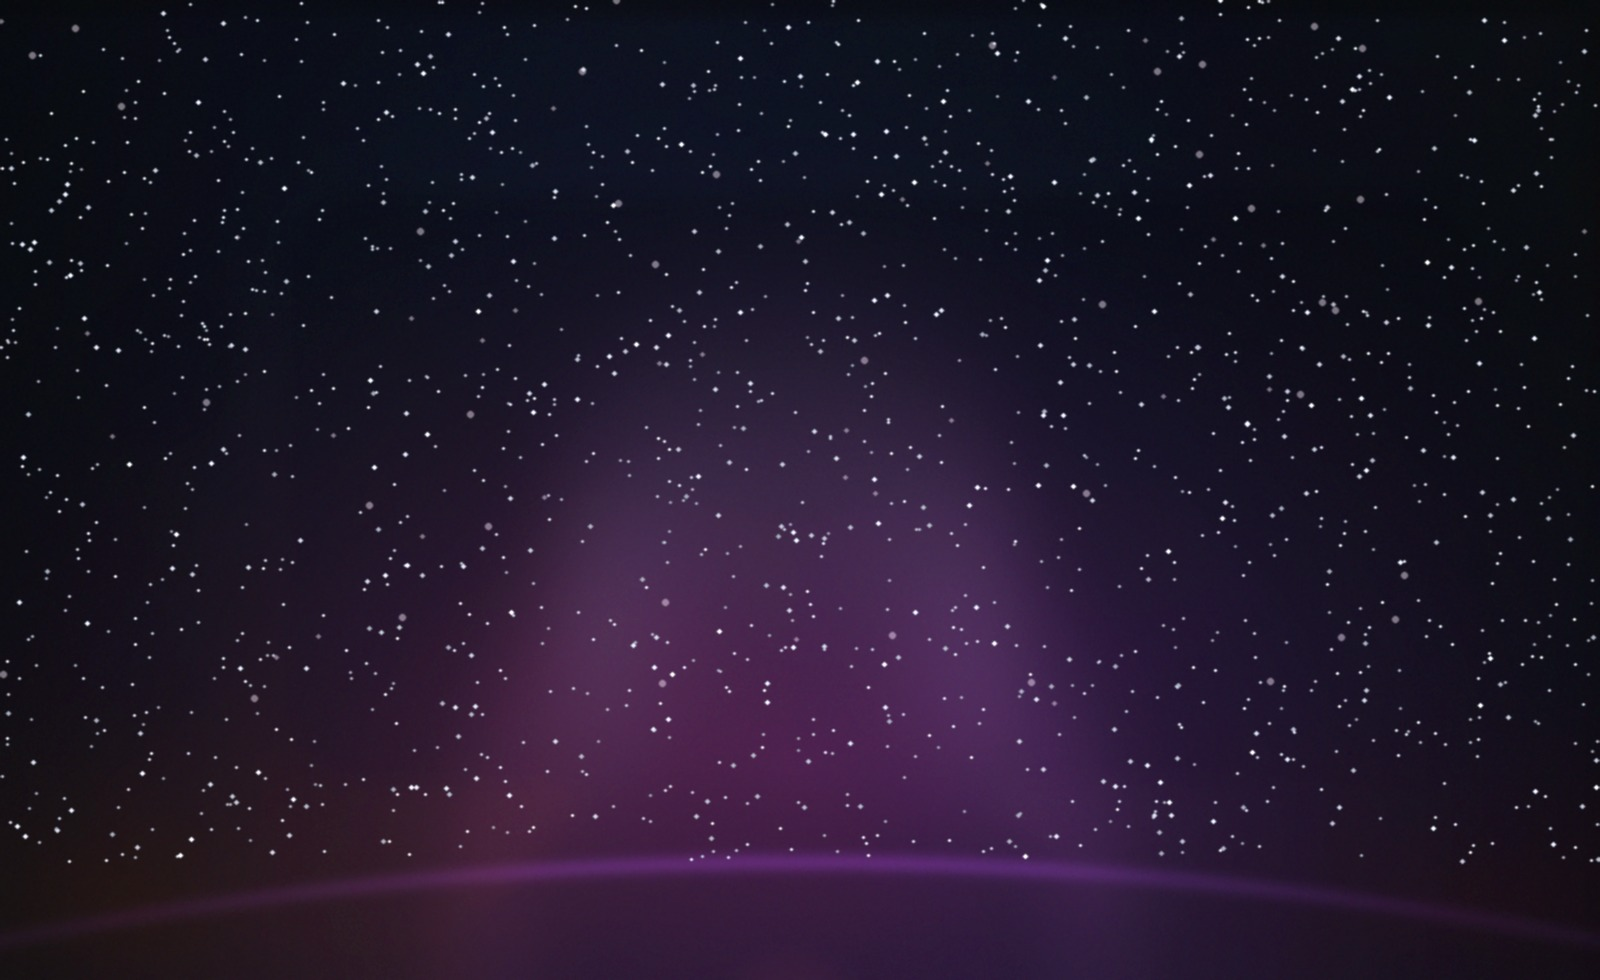
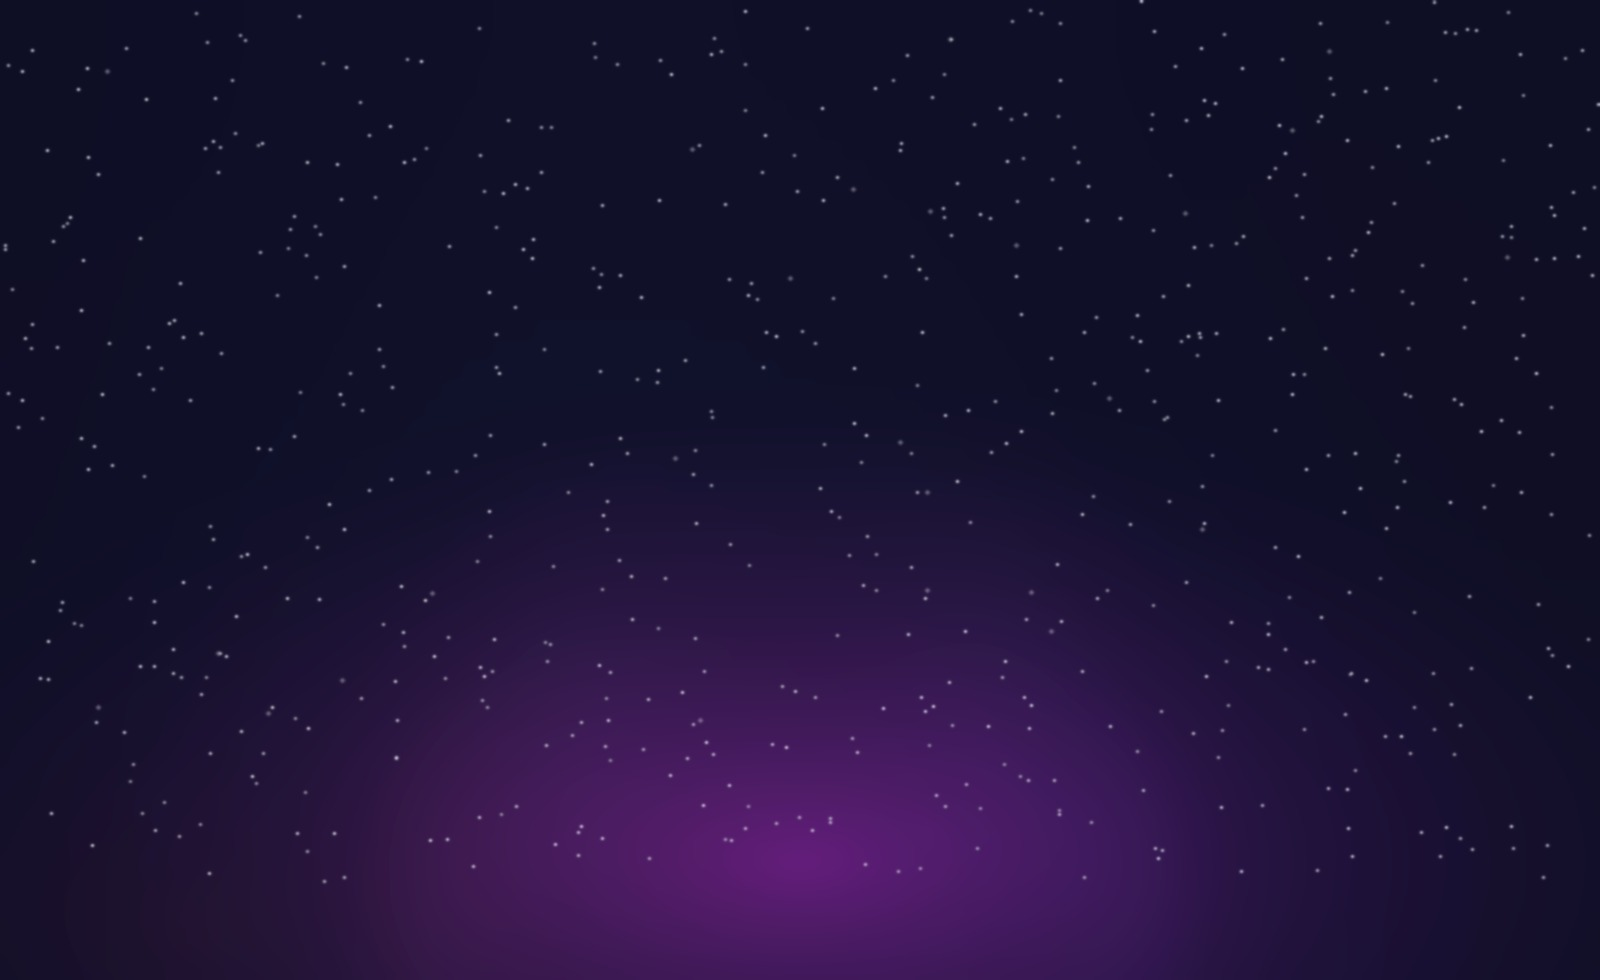
Simplify Control dark BG — fewer gradients + soft blur (desk238)
Single indigo base with one magenta wash; reduce star density; ~15% blur.
Light unchanged. Cache-bust desk238.

diff --git a/control.html b/control.html
@@ -19,8 +19,8 @@
     })();
   </script>
   <link rel="stylesheet" href="/css/fonts.css?v=hang1">
-  <link rel="stylesheet" href="/css/style.css?v=desk237">
-  <link rel="stylesheet" href="/css/admin.css?v=desk237">
+  <link rel="stylesheet" href="/css/style.css?v=desk238">
+  <link rel="stylesheet" href="/css/admin.css?v=desk238">
   <style>
     .hidden{display:none!important}
     #adminApp.hidden{display:none!important}
@@ -32,7 +32,7 @@
   </style>
 </head>
 <body class="ad-body">
-  <!-- Dual-layer mesh + photo Ken Burns (desk237) — JS ensureControlMesh() repairs if missing -->
+  <!-- Dual-layer mesh + photo Ken Burns (desk238) — JS ensureControlMesh() repairs if missing -->
   <div class="ad-mesh" id="adMesh" aria-hidden="true">
     <div class="ad-mesh-photo"></div>
     <div class="ad-mesh-layer ad-mesh-layer-a"></div>
@@ -272,14 +272,14 @@
         loading = true;
         busy(true);
         var files = [
-          "/js/app.js?v=desk237",
-          "/js/lms.js?v=desk237",
-          "/js/admin-core.js?v=desk237",
-          "/js/admin.js?v=desk237",
+          "/js/app.js?v=desk238",
+          "/js/lms.js?v=desk238",
+          "/js/admin-core.js?v=desk238",
+          "/js/admin.js?v=desk238",
           "/js/admin-course.js?v=desk212",
           "/js/admin-mentor.js?v=desk3",
           "/js/admin-webinar.js?v=desk3",
-          "/js/admin-app.js?v=desk237"
+          "/js/admin-app.js?v=desk238"
         ];
         var i = 0;
         function finish() {

diff --git a/css/admin.css b/css/admin.css
@@ -43,7 +43,7 @@ html.control-html[data-control-theme="light"] {
   position: relative;
   overflow-x: clip;
 }
-/* Fixed mesh backdrop — photo Ken Burns + CSS washes (CRM motion feel, desk237) */
+/* Fixed mesh backdrop — photo Ken Burns + CSS washes (CRM motion feel, desk238) */
 .ad-mesh {
   position: fixed;
   inset: 0;
@@ -57,7 +57,7 @@ html.control-html[data-control-theme="light"] {
   inset: -18%;
   width: 136%;
   height: 136%;
-  background-image: url("/img/control-theme/bg-light.jpg?v=desk237");
+  background-image: url("/img/control-theme/bg-light.jpg?v=desk238");
   background-size: cover;
   background-position: 50% 45%;
   background-repeat: no-repeat;
@@ -67,7 +67,7 @@ html.control-html[data-control-theme="light"] {
   animation-play-state: running;
 }
 html.control-html[data-control-theme="dark"] .ad-mesh-photo {
-  background-image: url("/img/control-theme/bg-dark.jpg?v=desk237");
+  background-image: url("/img/control-theme/bg-dark.jpg?v=desk238");
   opacity: 0.88;
 }
 .ad-mesh-layer {

diff --git a/js/admin-app.js b/js/admin-app.js
@@ -63,8 +63,8 @@ const NAV = [
 /** Control desk theme — same localStorage pattern as CRM (`crmTheme`). */
 const CONTROL_THEME_KEY = "controlTheme";
 const CONTROL_THEME_BG = {
-  light: "/img/control-theme/bg-light.jpg?v=desk237",
-  dark: "/img/control-theme/bg-dark.jpg?v=desk237"
+  light: "/img/control-theme/bg-light.jpg?v=desk238",
+  dark: "/img/control-theme/bg-dark.jpg?v=desk238"
 };
 
 function getControlTheme() {

diff --git a/js/app.js b/js/app.js
@@ -9964,3 +9964,4 @@ else setTimeout(startPublicBoot, 0);
 /* cache-bust desk235: Control dark BG re-extract — pure starry+aurora, no Astro UI */
 /* cache-bust desk236: merge sub-admin commerce sync onto theme desk */
 /* cache-bust desk237: Control dark theme BG v2 — indigo/magenta/orange + stars */
+/* cache-bust desk238: Control dark BG cleaner — fewer gradients + ~15% blur */
